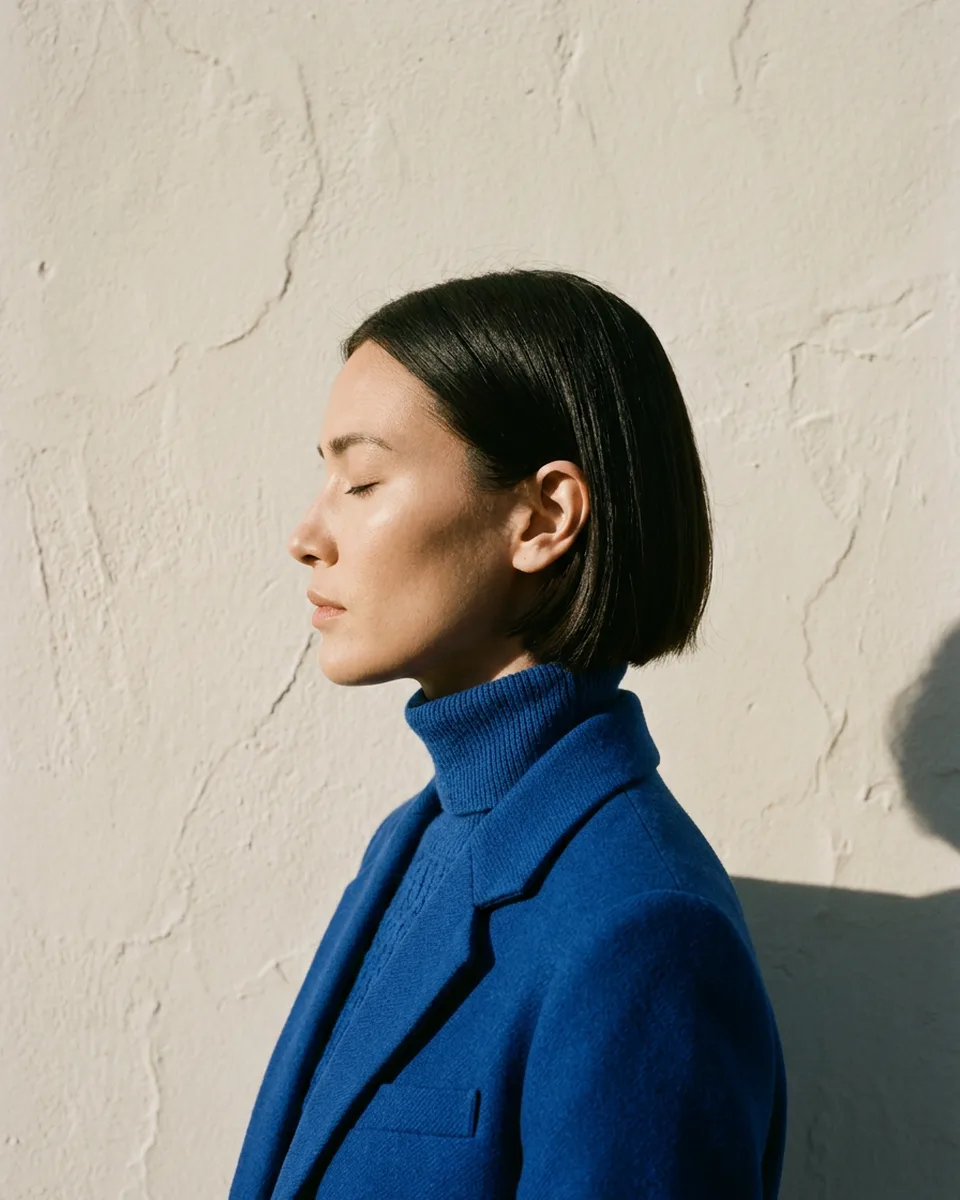
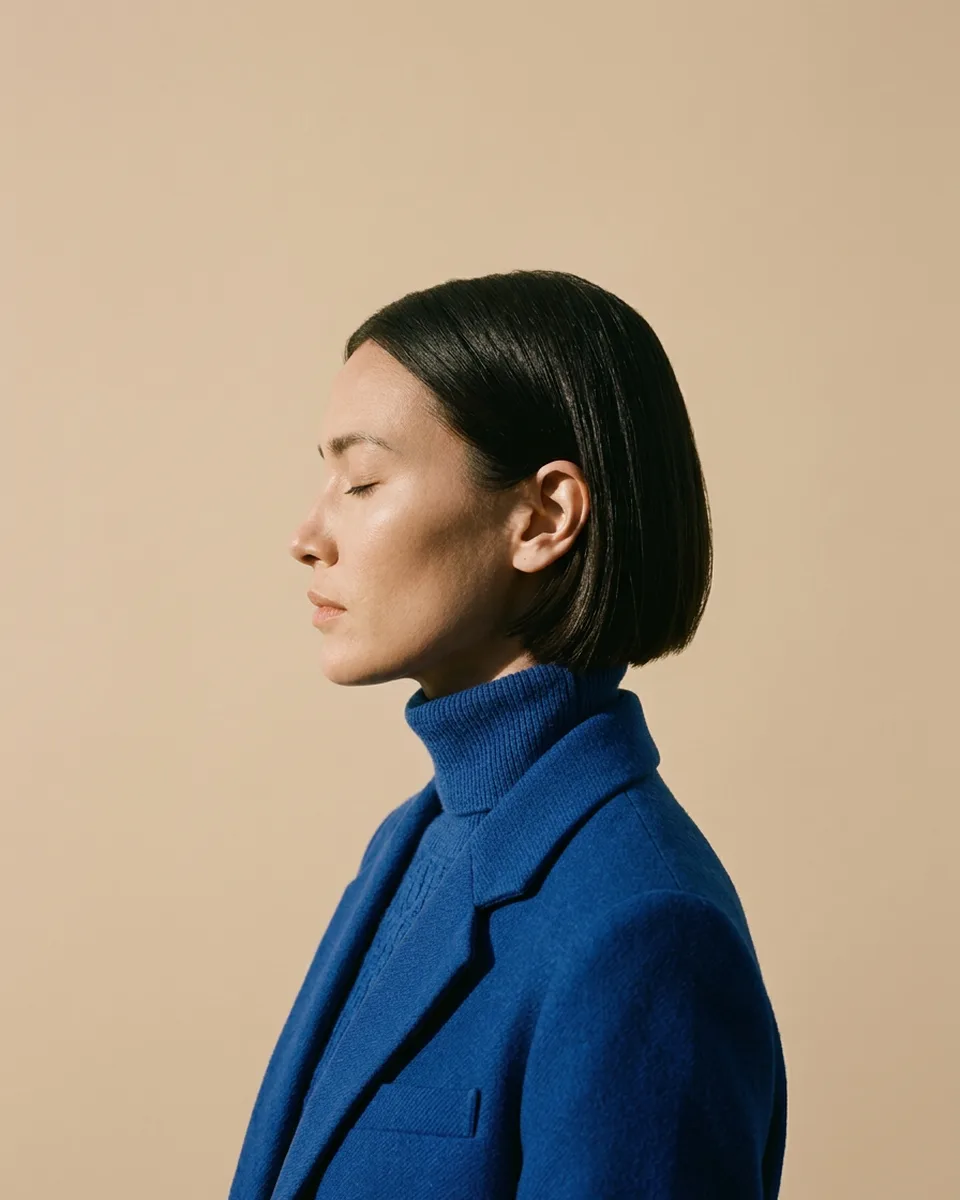
Light page, flat-backdrop photos for 01, and a smoother flood in 07
- The page is light now: #f2f2f2 ground with near-black text.
- 01's six photographs are the same models on a flat beige backdrop,
  all half-length portraits, so the card takes each figure first and
  then the backdrop in one sweep. Page 1's alt text follows them.
- 07's flood picks up from the blob's own growth (power1.inOut, set
  off just before the blob is fully gathered), with no pause between.
- New social preview image.

diff --git a/index.html b/index.html
@@ -7,7 +7,7 @@
     <meta name="description" content="Hover a photograph and a card's colour reaches its shadows before its highlights, so the picture draws the card's jagged edge. A WebGL and GSAP hover effect." />
     <meta name="keywords" content="hover effect, image hover, image grid, WebGL, GLSL shaders, GSAP" />
     <link rel="canonical" href="https://tympanus.net/Demos/LookbookHoverEffects/" />
-    <meta name="theme-color" content="#0f0e0e" />
+    <meta name="theme-color" content="#f2f2f2" />
     <meta property="og:type" content="website" />
     <meta property="og:site_name" content="Codrops" />
     <meta property="og:title" content="Lookbook Hover Effects | Demo 1 | Codrops" />
@@ -16,13 +16,13 @@
     <meta property="og:image" content="https://tympanus.net/Demos/LookbookHoverEffects/og-image.jpg" />
     <meta property="og:image:width" content="1200" />
     <meta property="og:image:height" content="630" />
-    <meta property="og:image:alt" content="A lookbook grid of six portraits in cobalt, one of them half covered by a cobalt card reading Look 02, its edge jagged along the photograph’s shadows" />
+    <meta property="og:image:alt" content="A lookbook grid of six portraits in cobalt on a beige backdrop; in one, the card’s colour has filled the model’s silhouette before the backdrop" />
     <meta name="twitter:card" content="summary_large_image" />
     <meta name="twitter:site" content="@codrops" />
     <meta name="twitter:title" content="Lookbook Hover Effects | Demo 1 | Codrops" />
     <meta name="twitter:description" content="Hover a photograph and a card's colour reaches its shadows before its highlights, so the picture draws the card's jagged edge. A WebGL and GSAP hover effect." />
     <meta name="twitter:image" content="https://tympanus.net/Demos/LookbookHoverEffects/og-image.jpg" />
-    <meta name="twitter:image:alt" content="A lookbook grid of six portraits in cobalt, one of them half covered by a cobalt card reading Look 02, its edge jagged along the photograph’s shadows" />
+    <meta name="twitter:image:alt" content="A lookbook grid of six portraits in cobalt on a beige backdrop; in one, the card’s colour has filled the model’s silhouette before the backdrop" />
     <link rel="icon" type="image/svg+xml" href="https://tympanus.net/favicon/favicon.svg" />
     <link rel="shortcut icon" href="https://tympanus.net/favicon/favicon.ico" />
     <link rel="preconnect" href="https://fonts.googleapis.com" />
@@ -69,7 +69,7 @@
       <ul class="looks">
         <li>
           <figure class="look">
-            <img class="look__img" src="img/01/1.webp" width="960" height="1200" alt="Model with a sleek dark bob in profile, eyes closed, in a cobalt coat and rollneck against a sunlit plaster wall" />
+            <img class="look__img" src="img/01/1.webp" width="960" height="1200" alt="Model with a sleek dark bob in profile, eyes closed, in a cobalt coat and rollneck against a plain beige backdrop" />
             <figcaption class="look__card">
               <span class="look__label">Look</span>
               <span class="look__num">01</span>
@@ -79,7 +79,7 @@
         </li>
         <li>
           <figure class="look">
-            <img class="look__img" src="img/01/2.webp" width="960" height="1200" alt="Model with a copper bob seated on a plinth in a cobalt suit and cable knit, in hard sunlight" />
+            <img class="look__img" src="img/01/2.webp" width="960" height="1200" alt="Model with a copper bob facing the camera in a cobalt suit jacket and cable knit" />
             <figcaption class="look__card">
               <span class="look__label">Look</span>
               <span class="look__num">02</span>
@@ -89,11 +89,11 @@
         </li>
         <li>
           <figure class="look">
-            <img class="look__img" src="img/01/3.webp" width="960" height="1200" alt="Model with black hair tied back, arms out, in a long cobalt coat and wide trousers" />
+            <img class="look__img" src="img/01/3.webp" width="960" height="1200" alt="Model with black hair tied back, eyes lowered, in a long cobalt coat over a fine knit" />
             <figcaption class="look__card">
               <span class="look__label">Look</span>
               <span class="look__num">03</span>
-              <span class="look__pieces">Long wool coat<br />Wide trousers</span>
+              <span class="look__pieces">Long wool coat<br />Fine knit</span>
             </figcaption>
           </figure>
         </li>

diff --git a/js/effects/liquid.js b/js/effects/liquid.js
@@ -21,11 +21,12 @@ const CONFIG = {
   size: 0.14, // the blob's radius when it gathers, as a share of the look's width
   tail: 3, // drops in its tail
   stiffness: 60, // how hard the blob is pulled after the pointer
-  damping: 11, // how quickly its wobble dies down
+  damping: 12, // how quickly its wobble dies down
   flick: 900, // CSS pixels a second the pointer must move for drops to break away
-  gather: 1.2, // how fast the liquid gathers while you hover, keeping still (it floods at 1)
+  gather: 1.2, // how fast the liquid gathers while you hover, keeping still (it floods as it nears 1)
   flow: 0.0012, // how much more it gathers for every CSS pixel a second you move
   flood: 1, // seconds for it to flood the look
+  floodEase: 'power1.inOut', // how the flood spreads: picks up from the blob's own growth, so it carries on without a pause
   drain: 0.6, // seconds for it to drain away when you leave
   gloss: 0.1, // how bright its highlight is, 0 to 1
   lens: 30, // how far its curved surface bends the picture near the rim, in CSS pixels
@@ -127,7 +128,7 @@ function liquid(look) {
   const head = { x: 0, y: 0, vx: 0, vy: 0 }; // the blob, pulled after the pointer
   let tail = []; // drops trailing the blob, each after the one before
   let loose = []; // drops flicked off, pulled back to the blob
-  let gathered = 0; // how much liquid has gathered, 0 to 1 (it floods at 1)
+  let gathered = 0; // how much liquid has gathered, 0 to 1 (it floods as it nears 1)
   let hovering = false;
   let cooldown = 0;
   const state = { presence: 0, flood: 0 }; // how much of the liquid is there (draining, 0), and how far it has flooded
@@ -144,7 +145,7 @@ function liquid(look) {
       Math.hypot(head.x, size.height - head.y),
       Math.hypot(size.width - head.x, size.height - head.y),
     );
-    const flood = gsap.parseEase('power2.inOut')(state.flood);
+    const flood = gsap.parseEase(CONFIG.floodEase)(state.flood);
     const r = gsap.utils.interpolate(base, corner * 1.6 + 20, flood) * state.presence;
     let n = 0;
     const add = (x, y, radius) => {
@@ -222,10 +223,12 @@ function liquid(look) {
       return Math.hypot(head.x - d.x, head.y - d.y) > base * 0.35;
     });
 
-    // It gathers while you hover, more as you move, and floods at 1.
-    if (hovering && !flooding) {
+    // It gathers while you hover, more as you move, up to 1. The flood sets
+    // off a little before that, while the blob is still growing, so the one
+    // runs into the other without a pause.
+    if (hovering && gathered < 1) {
       gathered = Math.min(1, gathered + dt * (CONFIG.gather + CONFIG.flow * speed));
-      if (gathered >= 1) floodIt();
+      if (gathered >= 0.85 && !flooding) floodIt();
     }
 
     draw();

diff --git a/index7.html b/index7.html
@@ -7,7 +7,7 @@
     <meta name="description" content="Hover a photograph and draw in a clear liquid glass that follows the pointer, bends the picture at its rim, flicks off drops and floods the look in frosted glass. A WebGL and GSAP hover effect." />
     <meta name="keywords" content="hover effect, image hover, liquid glass, frosted glass, metaballs, image grid, WebGL, GLSL shaders, GSAP" />
     <link rel="canonical" href="https://tympanus.net/Demos/LookbookHoverEffects/index7.html" />
-    <meta name="theme-color" content="#0f0e0e" />
+    <meta name="theme-color" content="#f2f2f2" />
     <meta property="og:type" content="website" />
     <meta property="og:site_name" content="Codrops" />
     <meta property="og:title" content="Lookbook Hover Effects | Demo 7 | Codrops" />
@@ -16,13 +16,13 @@
     <meta property="og:image" content="https://tympanus.net/Demos/LookbookHoverEffects/og-image.jpg" />
     <meta property="og:image:width" content="1200" />
     <meta property="og:image:height" content="630" />
-    <meta property="og:image:alt" content="A lookbook grid of six portraits in cobalt, one of them half covered by a cobalt card reading Look 02, its edge jagged along the photograph’s shadows" />
+    <meta property="og:image:alt" content="A lookbook grid of six portraits in cobalt on a beige backdrop; in one, the card’s colour has filled the model’s silhouette before the backdrop" />
     <meta name="twitter:card" content="summary_large_image" />
     <meta name="twitter:site" content="@codrops" />
     <meta name="twitter:title" content="Lookbook Hover Effects | Demo 7 | Codrops" />
     <meta name="twitter:description" content="Hover a photograph and draw in a clear liquid glass that follows the pointer, bends the picture at its rim, flicks off drops and floods the look in frosted glass. A WebGL and GSAP hover effect." />
     <meta name="twitter:image" content="https://tympanus.net/Demos/LookbookHoverEffects/og-image.jpg" />
-    <meta name="twitter:image:alt" content="A lookbook grid of six portraits in cobalt, one of them half covered by a cobalt card reading Look 02, its edge jagged along the photograph’s shadows" />
+    <meta name="twitter:image:alt" content="A lookbook grid of six portraits in cobalt on a beige backdrop; in one, the card’s colour has filled the model’s silhouette before the backdrop" />
     <link rel="icon" type="image/svg+xml" href="https://tympanus.net/favicon/favicon.svg" />
     <link rel="shortcut icon" href="https://tympanus.net/favicon/favicon.ico" />
     <link rel="preconnect" href="https://fonts.googleapis.com" />

diff --git a/index6.html b/index6.html
@@ -7,7 +7,7 @@
     <meta name="description" content="Hover a photograph and the pointer heats it like plastic film: it sags, stretches and tears open in glossy holes to show a card. A WebGL and GSAP hover effect." />
     <meta name="keywords" content="hover effect, image hover, image grid, WebGL, GLSL shaders, GSAP" />
     <link rel="canonical" href="https://tympanus.net/Demos/LookbookHoverEffects/index6.html" />
-    <meta name="theme-color" content="#0f0e0e" />
+    <meta name="theme-color" content="#f2f2f2" />
     <meta property="og:type" content="website" />
     <meta property="og:site_name" content="Codrops" />
     <meta property="og:title" content="Lookbook Hover Effects | Demo 6 | Codrops" />
@@ -16,13 +16,13 @@
     <meta property="og:image" content="https://tympanus.net/Demos/LookbookHoverEffects/og-image.jpg" />
     <meta property="og:image:width" content="1200" />
     <meta property="og:image:height" content="630" />
-    <meta property="og:image:alt" content="A lookbook grid of six portraits in cobalt, one of them half covered by a cobalt card reading Look 02, its edge jagged along the photograph’s shadows" />
+    <meta property="og:image:alt" content="A lookbook grid of six portraits in cobalt on a beige backdrop; in one, the card’s colour has filled the model’s silhouette before the backdrop" />
     <meta name="twitter:card" content="summary_large_image" />
     <meta name="twitter:site" content="@codrops" />
     <meta name="twitter:title" content="Lookbook Hover Effects | Demo 6 | Codrops" />
     <meta name="twitter:description" content="Hover a photograph and the pointer heats it like plastic film: it sags, stretches and tears open in glossy holes to show a card. A WebGL and GSAP hover effect." />
     <meta name="twitter:image" content="https://tympanus.net/Demos/LookbookHoverEffects/og-image.jpg" />
-    <meta name="twitter:image:alt" content="A lookbook grid of six portraits in cobalt, one of them half covered by a cobalt card reading Look 02, its edge jagged along the photograph’s shadows" />
+    <meta name="twitter:image:alt" content="A lookbook grid of six portraits in cobalt on a beige backdrop; in one, the card’s colour has filled the model’s silhouette before the backdrop" />
     <link rel="icon" type="image/svg+xml" href="https://tympanus.net/favicon/favicon.svg" />
     <link rel="shortcut icon" href="https://tympanus.net/favicon/favicon.ico" />
     <link rel="preconnect" href="https://fonts.googleapis.com" />

diff --git a/index2.html b/index2.html
@@ -7,7 +7,7 @@
     <meta name="description" content="Hover a photograph and a drop of liquid glass swells from its middle, bending the picture in around it as a card shows through. A WebGL and GSAP hover effect." />
     <meta name="keywords" content="hover effect, image hover, image grid, WebGL, GLSL shaders, GSAP" />
     <link rel="canonical" href="https://tympanus.net/Demos/LookbookHoverEffects/index2.html" />
-    <meta name="theme-color" content="#0f0e0e" />
+    <meta name="theme-color" content="#f2f2f2" />
     <meta property="og:type" content="website" />
     <meta property="og:site_name" content="Codrops" />
     <meta property="og:title" content="Lookbook Hover Effects | Demo 2 | Codrops" />
@@ -16,13 +16,13 @@
     <meta property="og:image" content="https://tympanus.net/Demos/LookbookHoverEffects/og-image.jpg" />
     <meta property="og:image:width" content="1200" />
     <meta property="og:image:height" content="630" />
-    <meta property="og:image:alt" content="A lookbook grid of six portraits in cobalt, one of them half covered by a cobalt card reading Look 02, its edge jagged along the photograph’s shadows" />
+    <meta property="og:image:alt" content="A lookbook grid of six portraits in cobalt on a beige backdrop; in one, the card’s colour has filled the model’s silhouette before the backdrop" />
     <meta name="twitter:card" content="summary_large_image" />
     <meta name="twitter:site" content="@codrops" />
     <meta name="twitter:title" content="Lookbook Hover Effects | Demo 2 | Codrops" />
     <meta name="twitter:description" content="Hover a photograph and a drop of liquid glass swells from its middle, bending the picture in around it as a card shows through. A WebGL and GSAP hover effect." />
     <meta name="twitter:image" content="https://tympanus.net/Demos/LookbookHoverEffects/og-image.jpg" />
-    <meta name="twitter:image:alt" content="A lookbook grid of six portraits in cobalt, one of them half covered by a cobalt card reading Look 02, its edge jagged along the photograph’s shadows" />
+    <meta name="twitter:image:alt" content="A lookbook grid of six portraits in cobalt on a beige backdrop; in one, the card’s colour has filled the model’s silhouette before the backdrop" />
     <link rel="icon" type="image/svg+xml" href="https://tympanus.net/favicon/favicon.svg" />
     <link rel="shortcut icon" href="https://tympanus.net/favicon/favicon.ico" />
     <link rel="preconnect" href="https://fonts.googleapis.com" />

diff --git a/index4.html b/index4.html
@@ -7,7 +7,7 @@
     <meta name="description" content="Hover a photograph and it comes apart in its tones, lights, then mid-tones, then shadows sliding away to show a card beneath. A WebGL and GSAP hover effect." />
     <meta name="keywords" content="hover effect, image hover, image grid, WebGL, GLSL shaders, GSAP" />
     <link rel="canonical" href="https://tympanus.net/Demos/LookbookHoverEffects/index4.html" />
-    <meta name="theme-color" content="#0f0e0e" />
+    <meta name="theme-color" content="#f2f2f2" />
     <meta property="og:type" content="website" />
     <meta property="og:site_name" content="Codrops" />
     <meta property="og:title" content="Lookbook Hover Effects | Demo 4 | Codrops" />
@@ -16,13 +16,13 @@
     <meta property="og:image" content="https://tympanus.net/Demos/LookbookHoverEffects/og-image.jpg" />
     <meta property="og:image:width" content="1200" />
     <meta property="og:image:height" content="630" />
-    <meta property="og:image:alt" content="A lookbook grid of six portraits in cobalt, one of them half covered by a cobalt card reading Look 02, its edge jagged along the photograph’s shadows" />
+    <meta property="og:image:alt" content="A lookbook grid of six portraits in cobalt on a beige backdrop; in one, the card’s colour has filled the model’s silhouette before the backdrop" />
     <meta name="twitter:card" content="summary_large_image" />
     <meta name="twitter:site" content="@codrops" />
     <meta name="twitter:title" content="Lookbook Hover Effects | Demo 4 | Codrops" />
     <meta name="twitter:description" content="Hover a photograph and it comes apart in its tones, lights, then mid-tones, then shadows sliding away to show a card beneath. A WebGL and GSAP hover effect." />
     <meta name="twitter:image" content="https://tympanus.net/Demos/LookbookHoverEffects/og-image.jpg" />
-    <meta name="twitter:image:alt" content="A lookbook grid of six portraits in cobalt, one of them half covered by a cobalt card reading Look 02, its edge jagged along the photograph’s shadows" />
+    <meta name="twitter:image:alt" content="A lookbook grid of six portraits in cobalt on a beige backdrop; in one, the card’s colour has filled the model’s silhouette before the backdrop" />
     <link rel="icon" type="image/svg+xml" href="https://tympanus.net/favicon/favicon.svg" />
     <link rel="shortcut icon" href="https://tympanus.net/favicon/favicon.ico" />
     <link rel="preconnect" href="https://fonts.googleapis.com" />

diff --git a/index5.html b/index5.html
@@ -7,7 +7,7 @@
     <meta name="description" content="Hover a photograph and it peels back like a print from the nearest corner, uncovering a card that brightens as it comes off. A WebGL and GSAP hover effect." />
     <meta name="keywords" content="hover effect, image hover, image grid, WebGL, GLSL shaders, GSAP" />
     <link rel="canonical" href="https://tympanus.net/Demos/LookbookHoverEffects/index5.html" />
-    <meta name="theme-color" content="#0f0e0e" />
+    <meta name="theme-color" content="#f2f2f2" />
     <meta property="og:type" content="website" />
     <meta property="og:site_name" content="Codrops" />
     <meta property="og:title" content="Lookbook Hover Effects | Demo 5 | Codrops" />
@@ -16,13 +16,13 @@
     <meta property="og:image" content="https://tympanus.net/Demos/LookbookHoverEffects/og-image.jpg" />
     <meta property="og:image:width" content="1200" />
     <meta property="og:image:height" content="630" />
-    <meta property="og:image:alt" content="A lookbook grid of six portraits in cobalt, one of them half covered by a cobalt card reading Look 02, its edge jagged along the photograph’s shadows" />
+    <meta property="og:image:alt" content="A lookbook grid of six portraits in cobalt on a beige backdrop; in one, the card’s colour has filled the model’s silhouette before the backdrop" />
     <meta name="twitter:card" content="summary_large_image" />
     <meta name="twitter:site" content="@codrops" />
     <meta name="twitter:title" content="Lookbook Hover Effects | Demo 5 | Codrops" />
     <meta name="twitter:description" content="Hover a photograph and it peels back like a print from the nearest corner, uncovering a card that brightens as it comes off. A WebGL and GSAP hover effect." />
     <meta name="twitter:image" content="https://tympanus.net/Demos/LookbookHoverEffects/og-image.jpg" />
-    <meta name="twitter:image:alt" content="A lookbook grid of six portraits in cobalt, one of them half covered by a cobalt card reading Look 02, its edge jagged along the photograph’s shadows" />
+    <meta name="twitter:image:alt" content="A lookbook grid of six portraits in cobalt on a beige backdrop; in one, the card’s colour has filled the model’s silhouette before the backdrop" />
     <link rel="icon" type="image/svg+xml" href="https://tympanus.net/favicon/favicon.svg" />
     <link rel="shortcut icon" href="https://tympanus.net/favicon/favicon.ico" />
     <link rel="preconnect" href="https://fonts.googleapis.com" />

diff --git a/index3.html b/index3.html
@@ -7,7 +7,7 @@
     <meta name="description" content="Hover a photograph and a card reaches in after the pointer, its edge jagged while you move and straight when you stop. A CSS clip-path and GSAP hover effect." />
     <meta name="keywords" content="hover effect, image hover, image grid, CSS clip-path, GSAP" />
     <link rel="canonical" href="https://tympanus.net/Demos/LookbookHoverEffects/index3.html" />
-    <meta name="theme-color" content="#0f0e0e" />
+    <meta name="theme-color" content="#f2f2f2" />
     <meta property="og:type" content="website" />
     <meta property="og:site_name" content="Codrops" />
     <meta property="og:title" content="Lookbook Hover Effects | Demo 3 | Codrops" />
@@ -16,13 +16,13 @@
     <meta property="og:image" content="https://tympanus.net/Demos/LookbookHoverEffects/og-image.jpg" />
     <meta property="og:image:width" content="1200" />
     <meta property="og:image:height" content="630" />
-    <meta property="og:image:alt" content="A lookbook grid of six portraits in cobalt, one of them half covered by a cobalt card reading Look 02, its edge jagged along the photograph’s shadows" />
+    <meta property="og:image:alt" content="A lookbook grid of six portraits in cobalt on a beige backdrop; in one, the card’s colour has filled the model’s silhouette before the backdrop" />
     <meta name="twitter:card" content="summary_large_image" />
     <meta name="twitter:site" content="@codrops" />
     <meta name="twitter:title" content="Lookbook Hover Effects | Demo 3 | Codrops" />
     <meta name="twitter:description" content="Hover a photograph and a card reaches in after the pointer, its edge jagged while you move and straight when you stop. A CSS clip-path and GSAP hover effect." />
     <meta name="twitter:image" content="https://tympanus.net/Demos/LookbookHoverEffects/og-image.jpg" />
-    <meta name="twitter:image:alt" content="A lookbook grid of six portraits in cobalt, one of them half covered by a cobalt card reading Look 02, its edge jagged along the photograph’s shadows" />
+    <meta name="twitter:image:alt" content="A lookbook grid of six portraits in cobalt on a beige backdrop; in one, the card’s colour has filled the model’s silhouette before the backdrop" />
     <link rel="icon" type="image/svg+xml" href="https://tympanus.net/favicon/favicon.svg" />
     <link rel="shortcut icon" href="https://tympanus.net/favicon/favicon.ico" />
     <link rel="preconnect" href="https://fonts.googleapis.com" />

diff --git a/index8.html b/index8.html
@@ -7,7 +7,7 @@
     <meta name="description" content="Hover a photograph and it changes like a channel, in flickering bands of its own scrambled colours that settle into a card. A WebGL and GSAP hover effect." />
     <meta name="keywords" content="hover effect, image hover, image grid, WebGL, GLSL shaders, GSAP" />
     <link rel="canonical" href="https://tympanus.net/Demos/LookbookHoverEffects/index8.html" />
-    <meta name="theme-color" content="#0f0e0e" />
+    <meta name="theme-color" content="#f2f2f2" />
     <meta property="og:type" content="website" />
     <meta property="og:site_name" content="Codrops" />
     <meta property="og:title" content="Lookbook Hover Effects | Demo 8 | Codrops" />
@@ -16,13 +16,13 @@
     <meta property="og:image" content="https://tympanus.net/Demos/LookbookHoverEffects/og-image.jpg" />
     <meta property="og:image:width" content="1200" />
     <meta property="og:image:height" content="630" />
-    <meta property="og:image:alt" content="A lookbook grid of six portraits in cobalt, one of them half covered by a cobalt card reading Look 02, its edge jagged along the photograph’s shadows" />
+    <meta property="og:image:alt" content="A lookbook grid of six portraits in cobalt on a beige backdrop; in one, the card’s colour has filled the model’s silhouette before the backdrop" />
     <meta name="twitter:card" content="summary_large_image" />
     <meta name="twitter:site" content="@codrops" />
     <meta name="twitter:title" content="Lookbook Hover Effects | Demo 8 | Codrops" />
     <meta name="twitter:description" content="Hover a photograph and it changes like a channel, in flickering bands of its own scrambled colours that settle into a card. A WebGL and GSAP hover effect." />
     <meta name="twitter:image" content="https://tympanus.net/Demos/LookbookHoverEffects/og-image.jpg" />
-    <meta name="twitter:image:alt" content="A lookbook grid of six portraits in cobalt, one of them half covered by a cobalt card reading Look 02, its edge jagged along the photograph’s shadows" />
+    <meta name="twitter:image:alt" content="A lookbook grid of six portraits in cobalt on a beige backdrop; in one, the card’s colour has filled the model’s silhouette before the backdrop" />
     <link rel="icon" type="image/svg+xml" href="https://tympanus.net/favicon/favicon.svg" />
     <link rel="shortcut icon" href="https://tympanus.net/favicon/favicon.ico" />
     <link rel="preconnect" href="https://fonts.googleapis.com" />

diff --git a/js/effects/shadow-first.js b/js/effects/shadow-first.js
@@ -18,10 +18,10 @@ import { fullscreen, overlay, program, texture, uniforms } from '../gl.js';
 import { wipe } from '../wipe.js';
 
 const CONFIG = {
-  duration: 1.2, // seconds for the colour to cross the look
+  duration: 0.8, // seconds for the colour to cross the look
   ease: 'power1.out', // sets off at once, slowing as it reaches the highlights
-  pull: 0.35, // how far ahead of the sweep the shadows fill, as a share of the look (0: a straight wipe)
-  light: 0.9, // how bright the hairline of light along the edge is, 0 to 1
+  pull: 0.75, // how far ahead of the sweep the shadows fill, as a share of the look (0: a straight wipe)
+  light: 0.2, // how bright the hairline of light along the edge is, 0 to 1
 };
 
 const fragment = `#version 300 es

diff --git a/css/base.css b/css/base.css
@@ -16,8 +16,8 @@
 }
 
 :root {
-  --bg: #0f0e0e;
-  --text: #f1ece4;
+  --bg: #f2f2f2;
+  --text: #0f0e0e;
   --card: #2340a3;
   --card-text: #f4efe6;
   --font: 'Inter Tight', system-ui, sans-serif;
